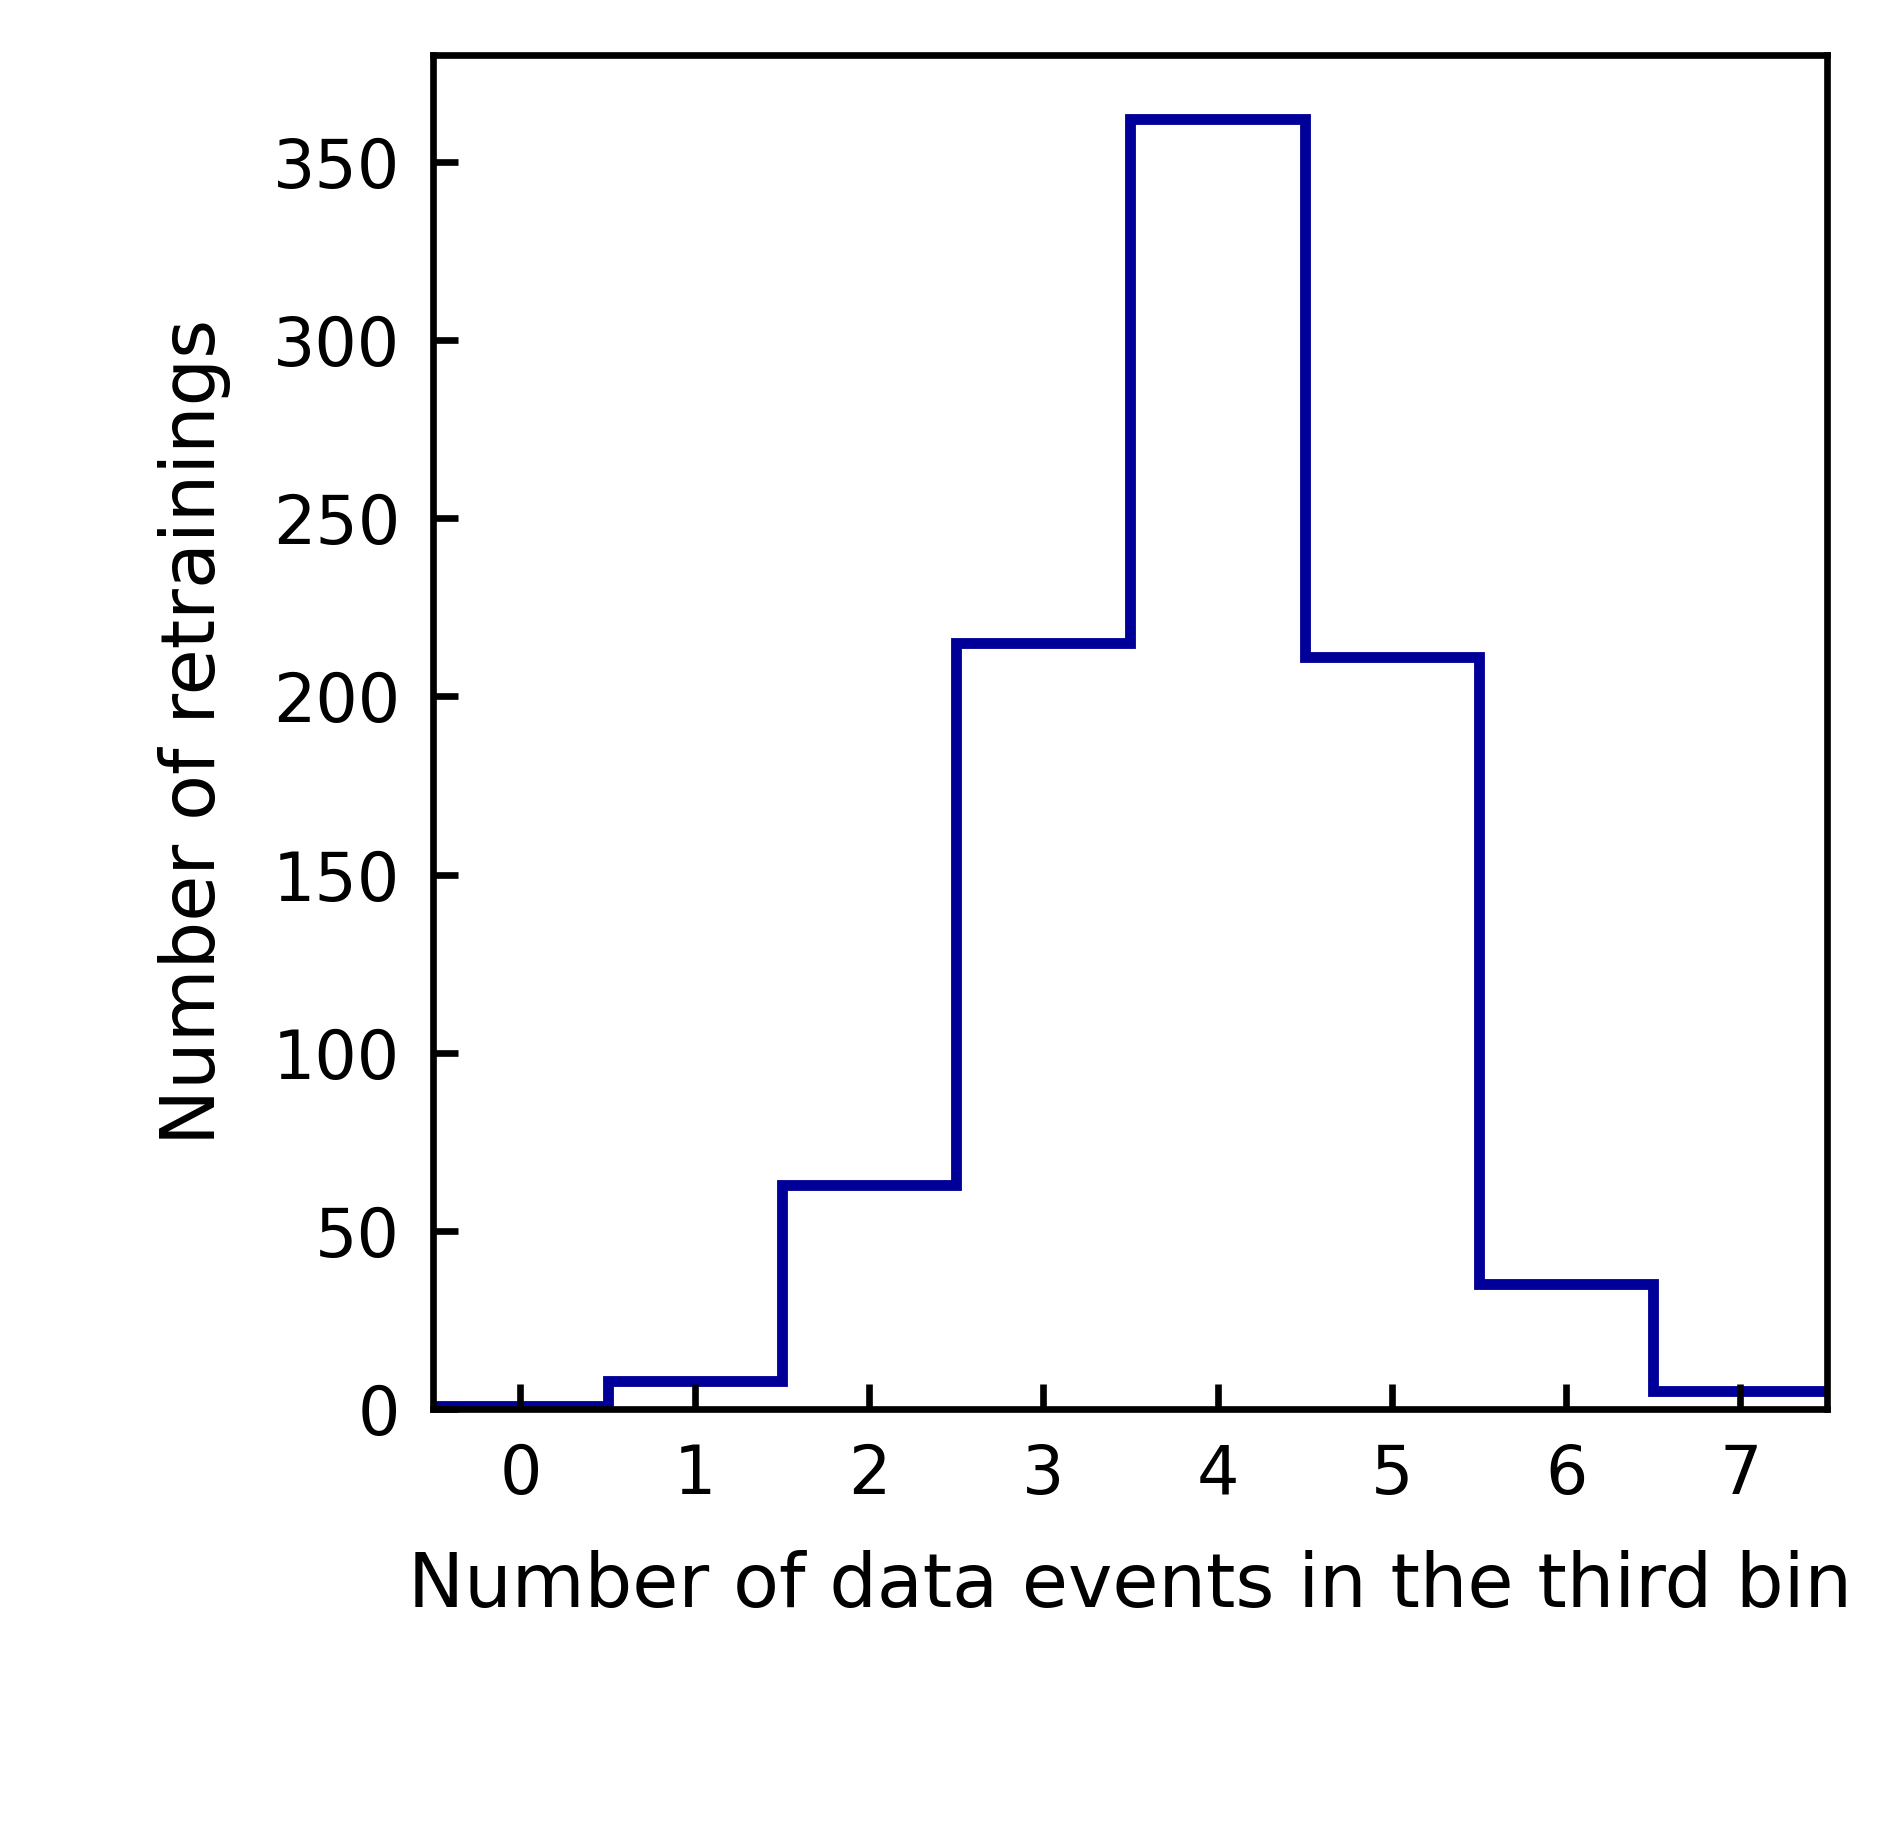
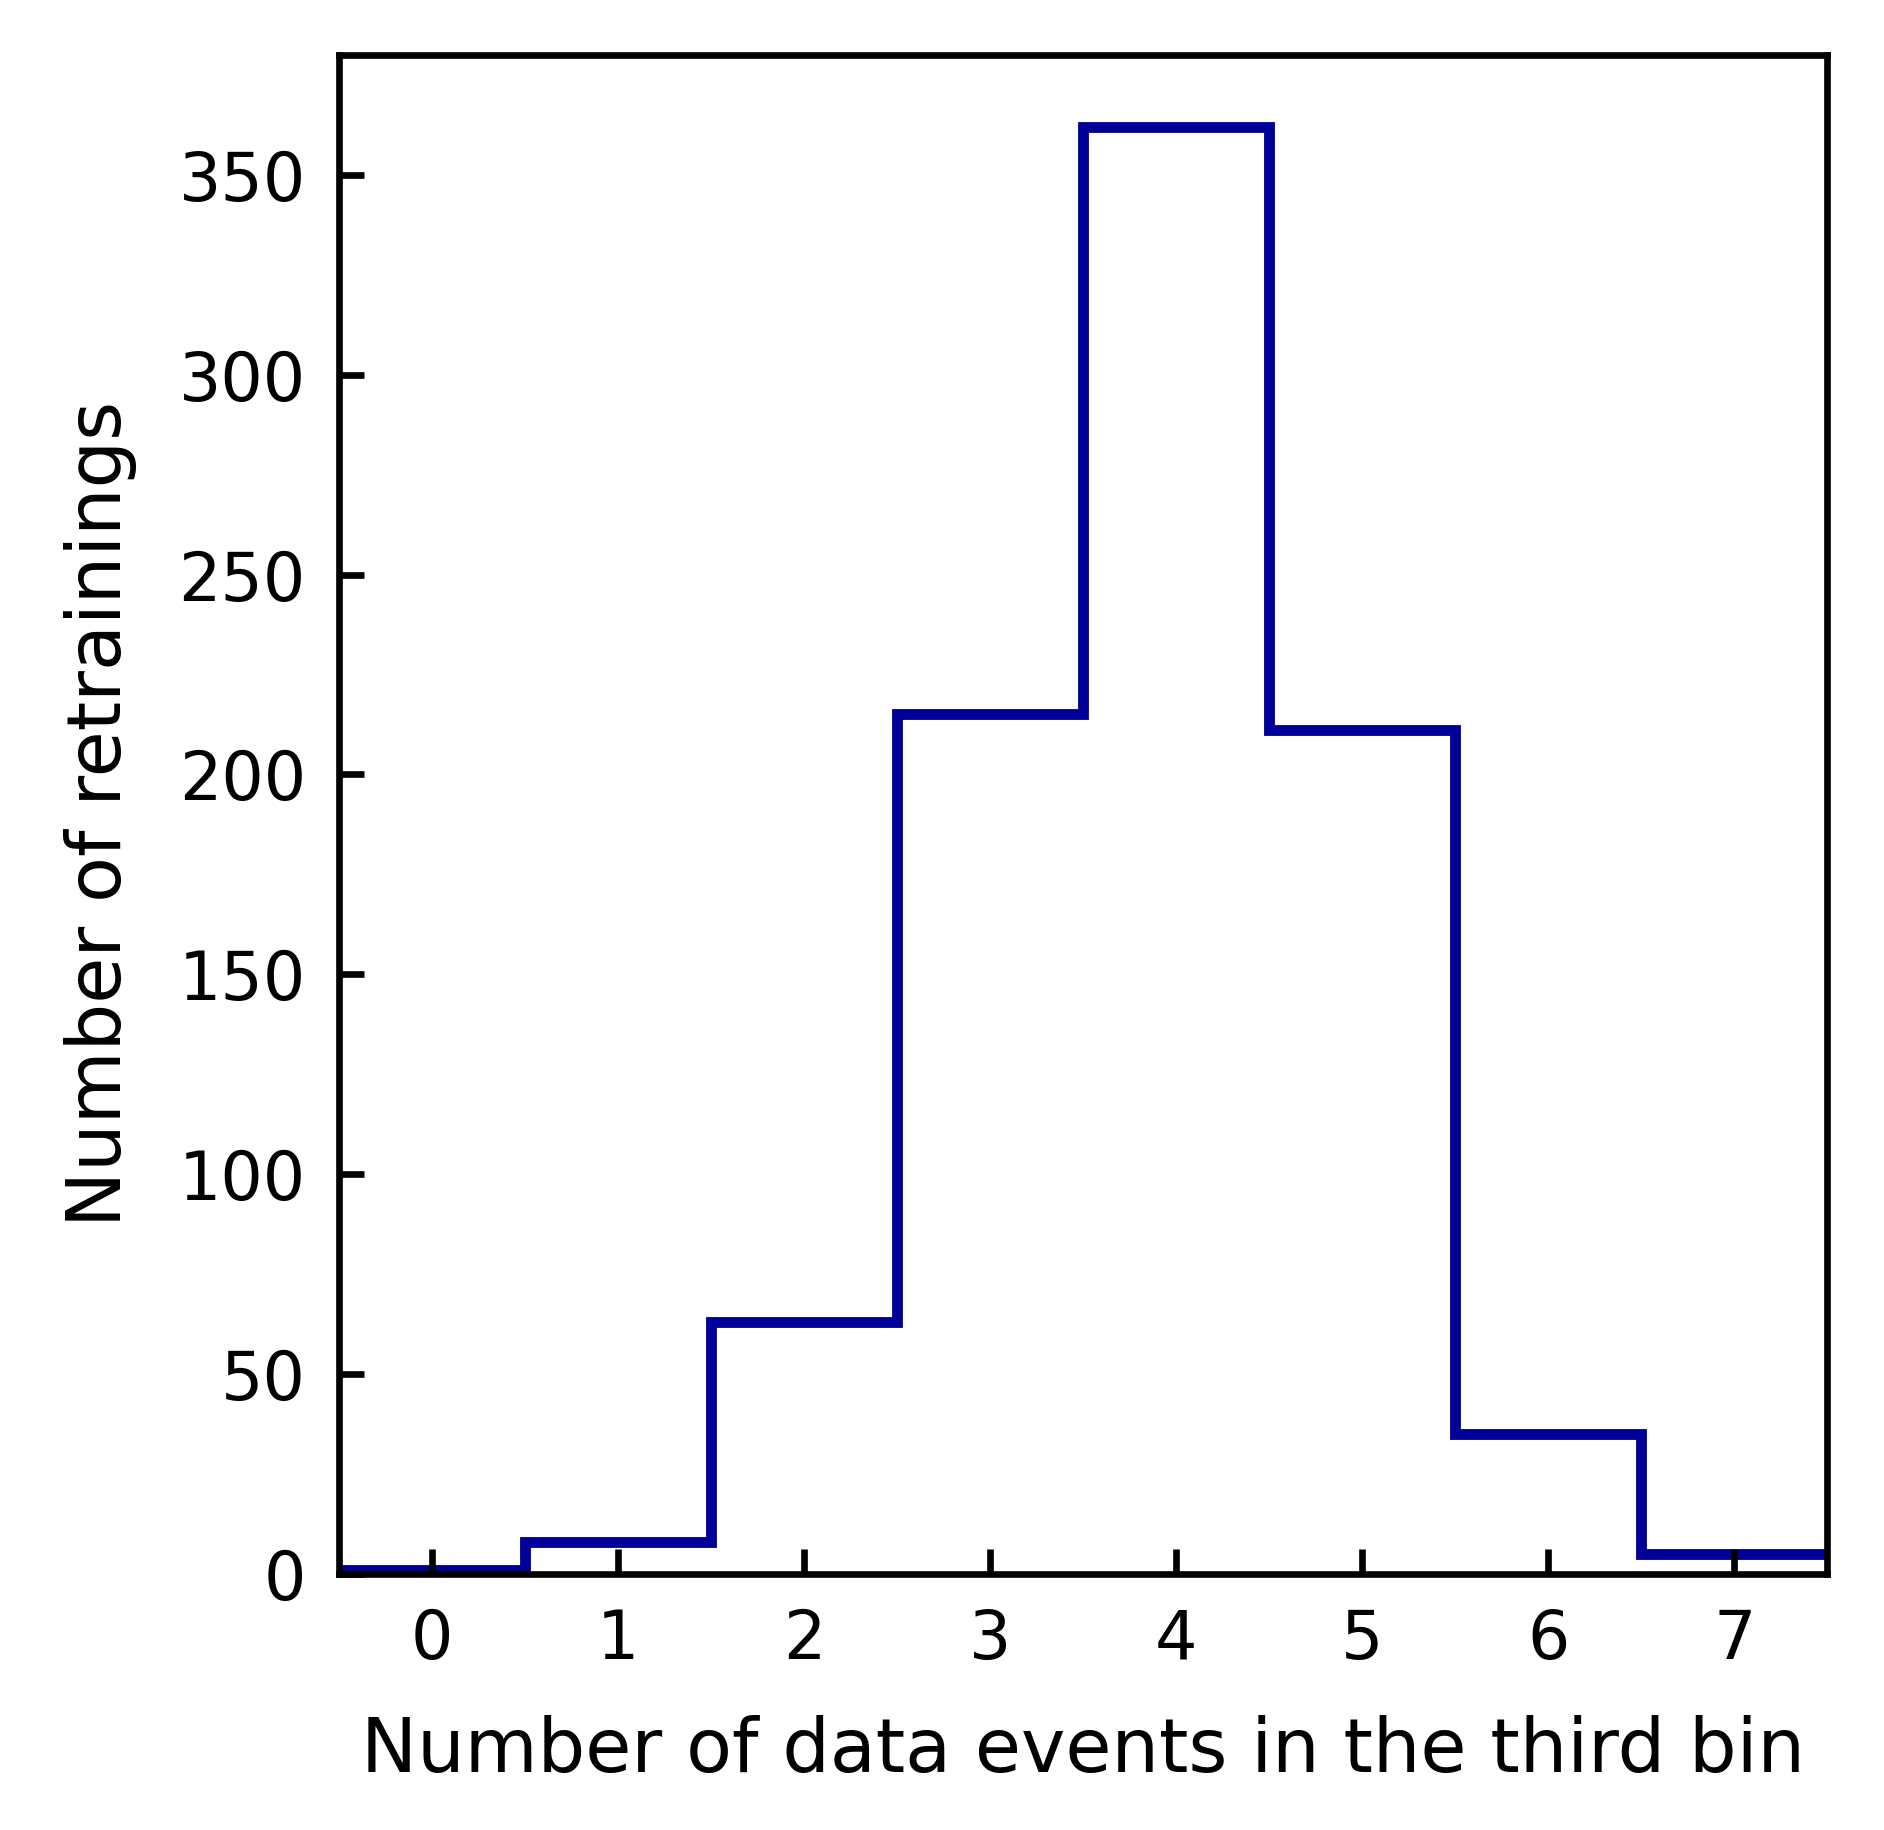
change plot size

Changed region(s): [[0.0308, 0.0311, 0.9851, 0.9033], [0.1847, 0.9344, 0.9544, 0.9656]]

diff --git a/scripts/steering_scripts_PhD_thesis/plot_third_bin.py b/scripts/steering_scripts_PhD_thesis/plot_third_bin.py
@@ -28,7 +28,7 @@ def make_figure():
     }
     with plt.rc_context(style):
         fig, ax = plt.subplots(figsize=FIGURE_SIZE_INCHES)
-        fig.subplots_adjust(left=0.23, right=0.97, bottom=0.23, top=0.97)
+        fig.subplots_adjust(left=0.18, right=0.97, bottom=0.14, top=0.97)
         ax.stairs(
             FREQUENCIES,
             np.arange(-0.5, 8.0, 1.0),
